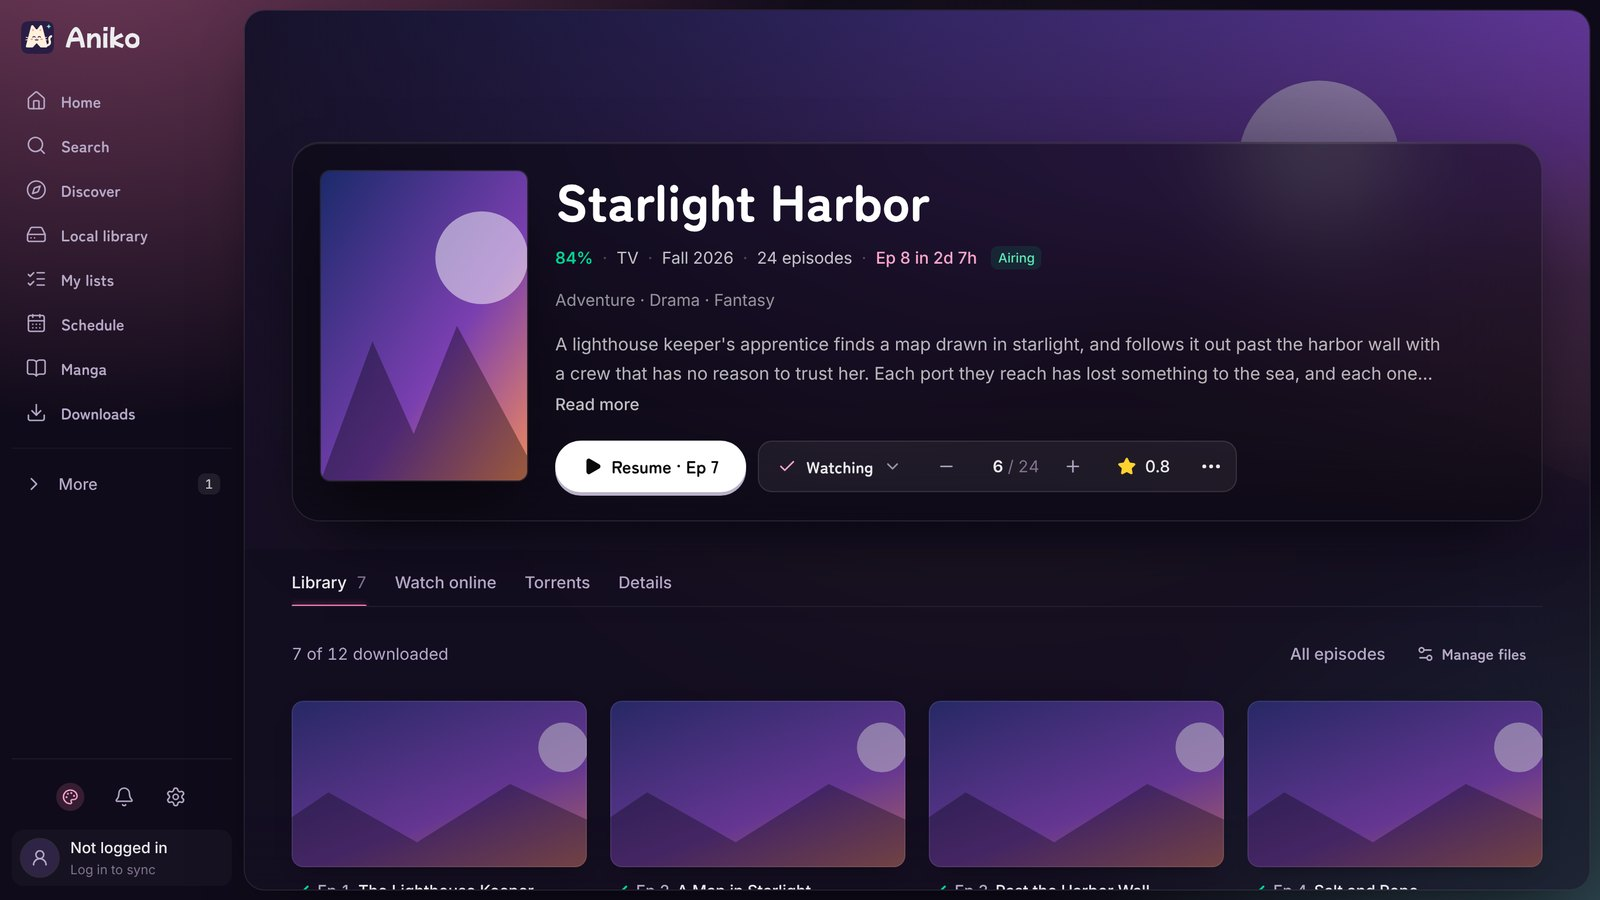
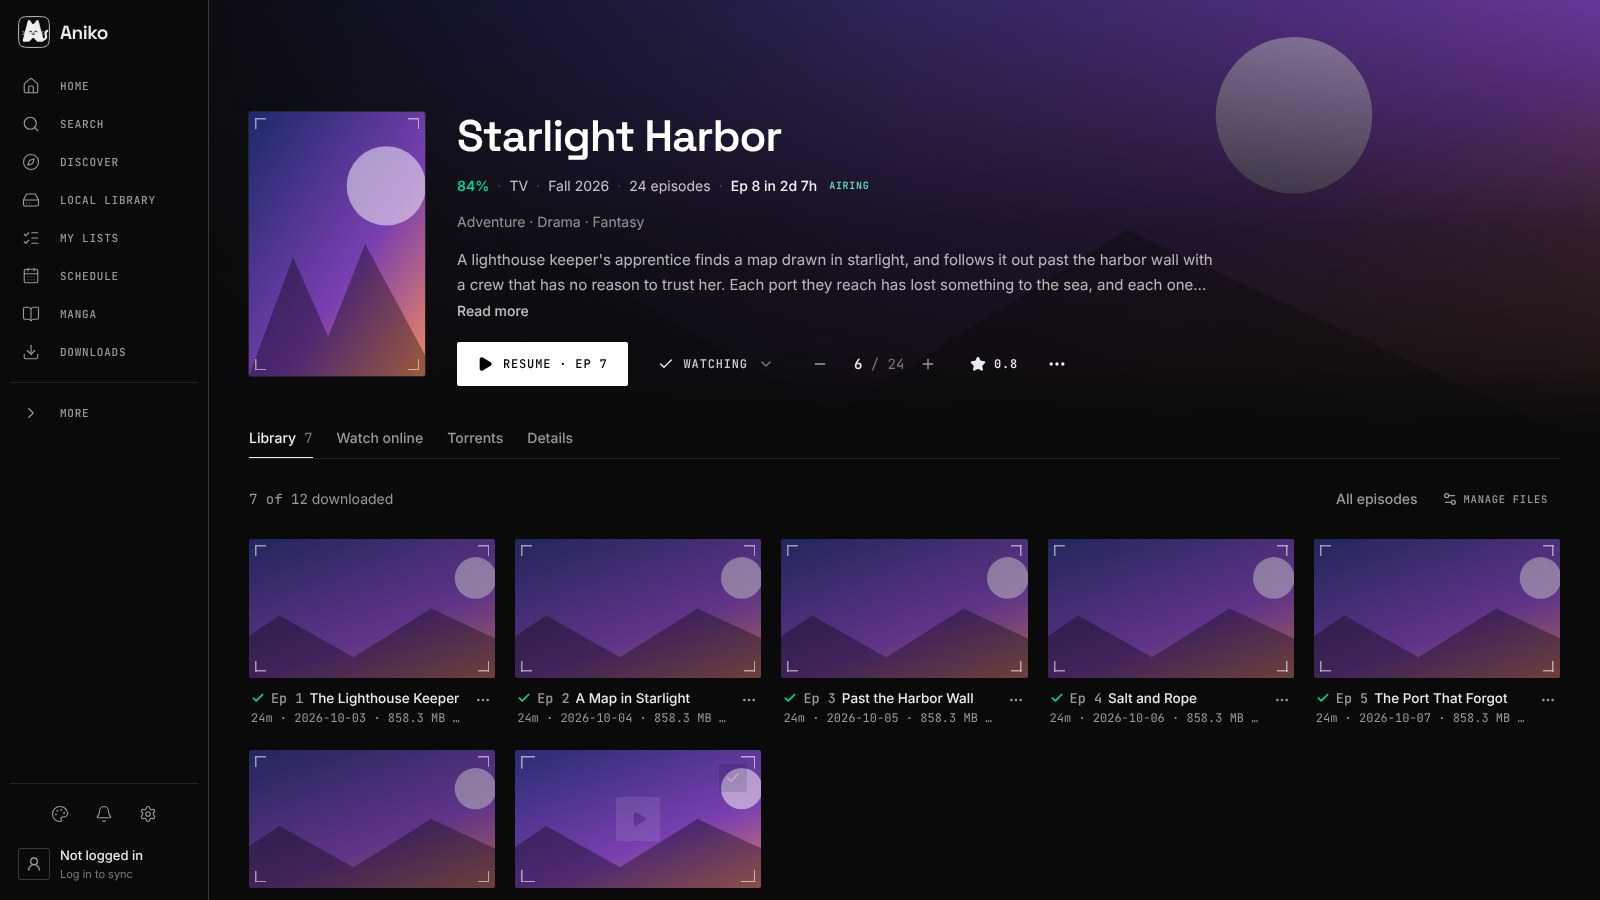
README: the Frame look, its themes and the right-click menus [skip ci]

diff --git a/README.md b/README.md
@@ -64,11 +64,12 @@
 
 **Your anime**
 - **Alerts** when a new episode of what you're watching airs, or episodes are ready to watch (a download or a torrent finished): in Aniko, or as the system's notifications.
+- **Right-click menus** on anime, episodes and list rows (downloads, torrents, playlists, the schedule, library tools…); on a TV the remote's Menu key opens them.
 - **What should I watch?** (the dice on Home) picks an anime from your list. **Stats**: your anime in numbers, and what you watched month by month.
 - **Parental controls** per device, set from your computer or the server: 18+, genres, single titles or only chosen anime, behind a PIN, with what the device watched.
 - **Backup and restore** (Settings › App & data): settings, watch history, list, choices, matches, auto downloader rules and extensions as one file; restoring merges with what's there.
 
-**Extras**: can keep running in the tray (or the Dock) when its window is closed, so streaming to other devices and downloads go on, and start in the background when you log in (Settings › App & data, both off unless you turn them on); updates itself from the Home page, Discord rich presence (local IPC), **color themes** (Aniko's own plum and pink, Graphite, Midnight, Forest, Sakura, Ember, Ocean, Dusk, true Black…) and accent colours, **holiday themes** that come on by themselves in their month, each with its own colours, decorations and animation (Halloween's moon, cobweb and bats in October, Christmas lights and snow in December, Valentine's hearts in February, a cherry branch and falling petals in April, summer lanterns and fireflies in August, New Year's fireworks), or always one, or none — all switched from **Themes** in the sidebar (or Settings › Appearance), along with the **classic look** (Aniko as it looked before 2.0), spoiler blur, Ctrl+K quick search, server logs and cache viewer.
+**Extras**: can keep running in the tray (or the Dock) when its window is closed, so streaming to other devices and downloads go on, and start in the background when you log in (Settings › App & data, both off unless you turn them on); updates itself from the Home page, Discord rich presence (local IPC), **color themes**, each one ink on one ground (Black, White, Graphite, Paper, Phosphor, Amber, Ice, Rose; White and Paper are light) and accent colours, **holiday themes** that come on by themselves in their month, each with its own colours, decorations and animation (Halloween's moon, cobweb and bats in October, Christmas lights and snow in December, Valentine's hearts in February, a cherry branch and falling petals in April, summer lanterns and fireflies in August, New Year's fireworks), or always one, or none — all switched from **Themes** in the sidebar (or Settings › Appearance), along with the **classic look** (Aniko as it looked before 2.0), spoiler blur, Ctrl+K quick search, server logs and cache viewer.
 
 ## Closed network by design
 
